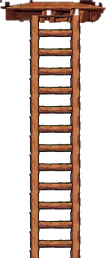
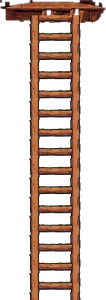
Night Watch: ladder hatches at the top of the ceiling; cellars get a black opening
Claude-Session: https://claude.ai/code/session_01JTmPYBVW2aVCQqTmNfy428

Changed region(s): [[0.0, 0.0, 1.0, 0.9922], [0.283, 0.4651, 0.3396, 0.5271], [0.2547, 0.124, 0.3113, 0.155]]

diff --git a/game/js/watch-art-castle.js b/game/js/watch-art-castle.js
@@ -64,7 +64,7 @@ window.WATCH_ART_CASTLE = {
      "img": "assets/img/watch/floors/ground/ladder-up.webp",
      "box": [
       1220,
-      42,
+      0,
       1326,
       300
      ]
@@ -201,9 +201,9 @@ window.WATCH_ART_CASTLE = {
     "up": {
      "img": "assets/img/watch/floors/cellars/ladder-up.webp",
      "box": [
-      1219,
-      42,
-      1324,
+      1233,
+      0,
+      1312,
       300
      ]
     }
@@ -314,7 +314,7 @@ window.WATCH_ART_CASTLE = {
      "img": "assets/img/watch/floors/upper/ladder-up.webp",
      "box": [
       1220,
-      42,
+      0,
       1326,
       300
      ]

diff --git a/game/tools/watch_art/castle/ladder_art.py b/game/tools/watch_art/castle/ladder_art.py
@@ -38,7 +38,7 @@ for y in range(470 - 1, -30, -1):
 # cols 170..340), cut where it differs from the bare vault; the straight ladder hangs from it
 cr, ce = load(f'{d}/cellars-ref.png'), load(f'{d}/cellars-3601.png')
 hc = cut(cr, ce, region(170, 340, 14, 50))[14:50, 170:340]
-HX, HY = 255 - 170, 66                                   # hatch centre (tile px) and its native top
+HX, HY = 255 - 170, 0                                    # hatch centre (tile px); its top sits at the top of the ceiling (Ladi)
 canvas = np.zeros((470, 170, 4), np.uint8); canvas[HY:HY + 36] = hc
 lx = HX - 47                                              # the ladder (95 wide, centred on the hatch) from the hatch down
 m = up[HY + 24:, :, 3:] / 255; reg = canvas[HY + 24:, lx:lx + 95]
@@ -46,5 +46,10 @@ reg[..., :3] = (reg[..., :3] * (1 - m) + up[HY + 24:, :, :3] * m).astype(np.uint
 for f in ('ground', 'upper'):
     J[f]['up'] = save(canvas, 1997 - HX, 0, f'{f}-up')
 # cellars (Ladi: should match the others): the same straight ladder and Sogni hatch, at the cellars' ladder x (1994)
-J['cellars'] = {'up': save(canvas, 1994 - HX, 0, 'cellars-up')}
+dark = np.zeros((470, 170, 4), np.uint8)                 # cellars (Ladi): a black opening in the vault crown instead of the planks
+dark[:40, HX - 62:HX + 62, :3] = (14, 11, 10); dark[:40, HX - 62:HX + 62, 3] = 255
+dark[35:40, HX - 62:HX + 62, :3] = (96, 66, 38)
+reg = dark[24:, lx:lx + 95]; m = up[24:, :, 3:] / 255
+reg[..., :3] = (reg[..., :3] * (1 - m) + up[24:, :, :3] * m).astype(np.uint8); reg[..., 3] = np.maximum(reg[..., 3], up[24:, :, 3])
+J['cellars'] = {'up': save(dark, 1994 - HX, 0, 'cellars-up')}
 json.dump(J, open(f'{out}/ladder.json', 'w'), indent=1); print(J)
